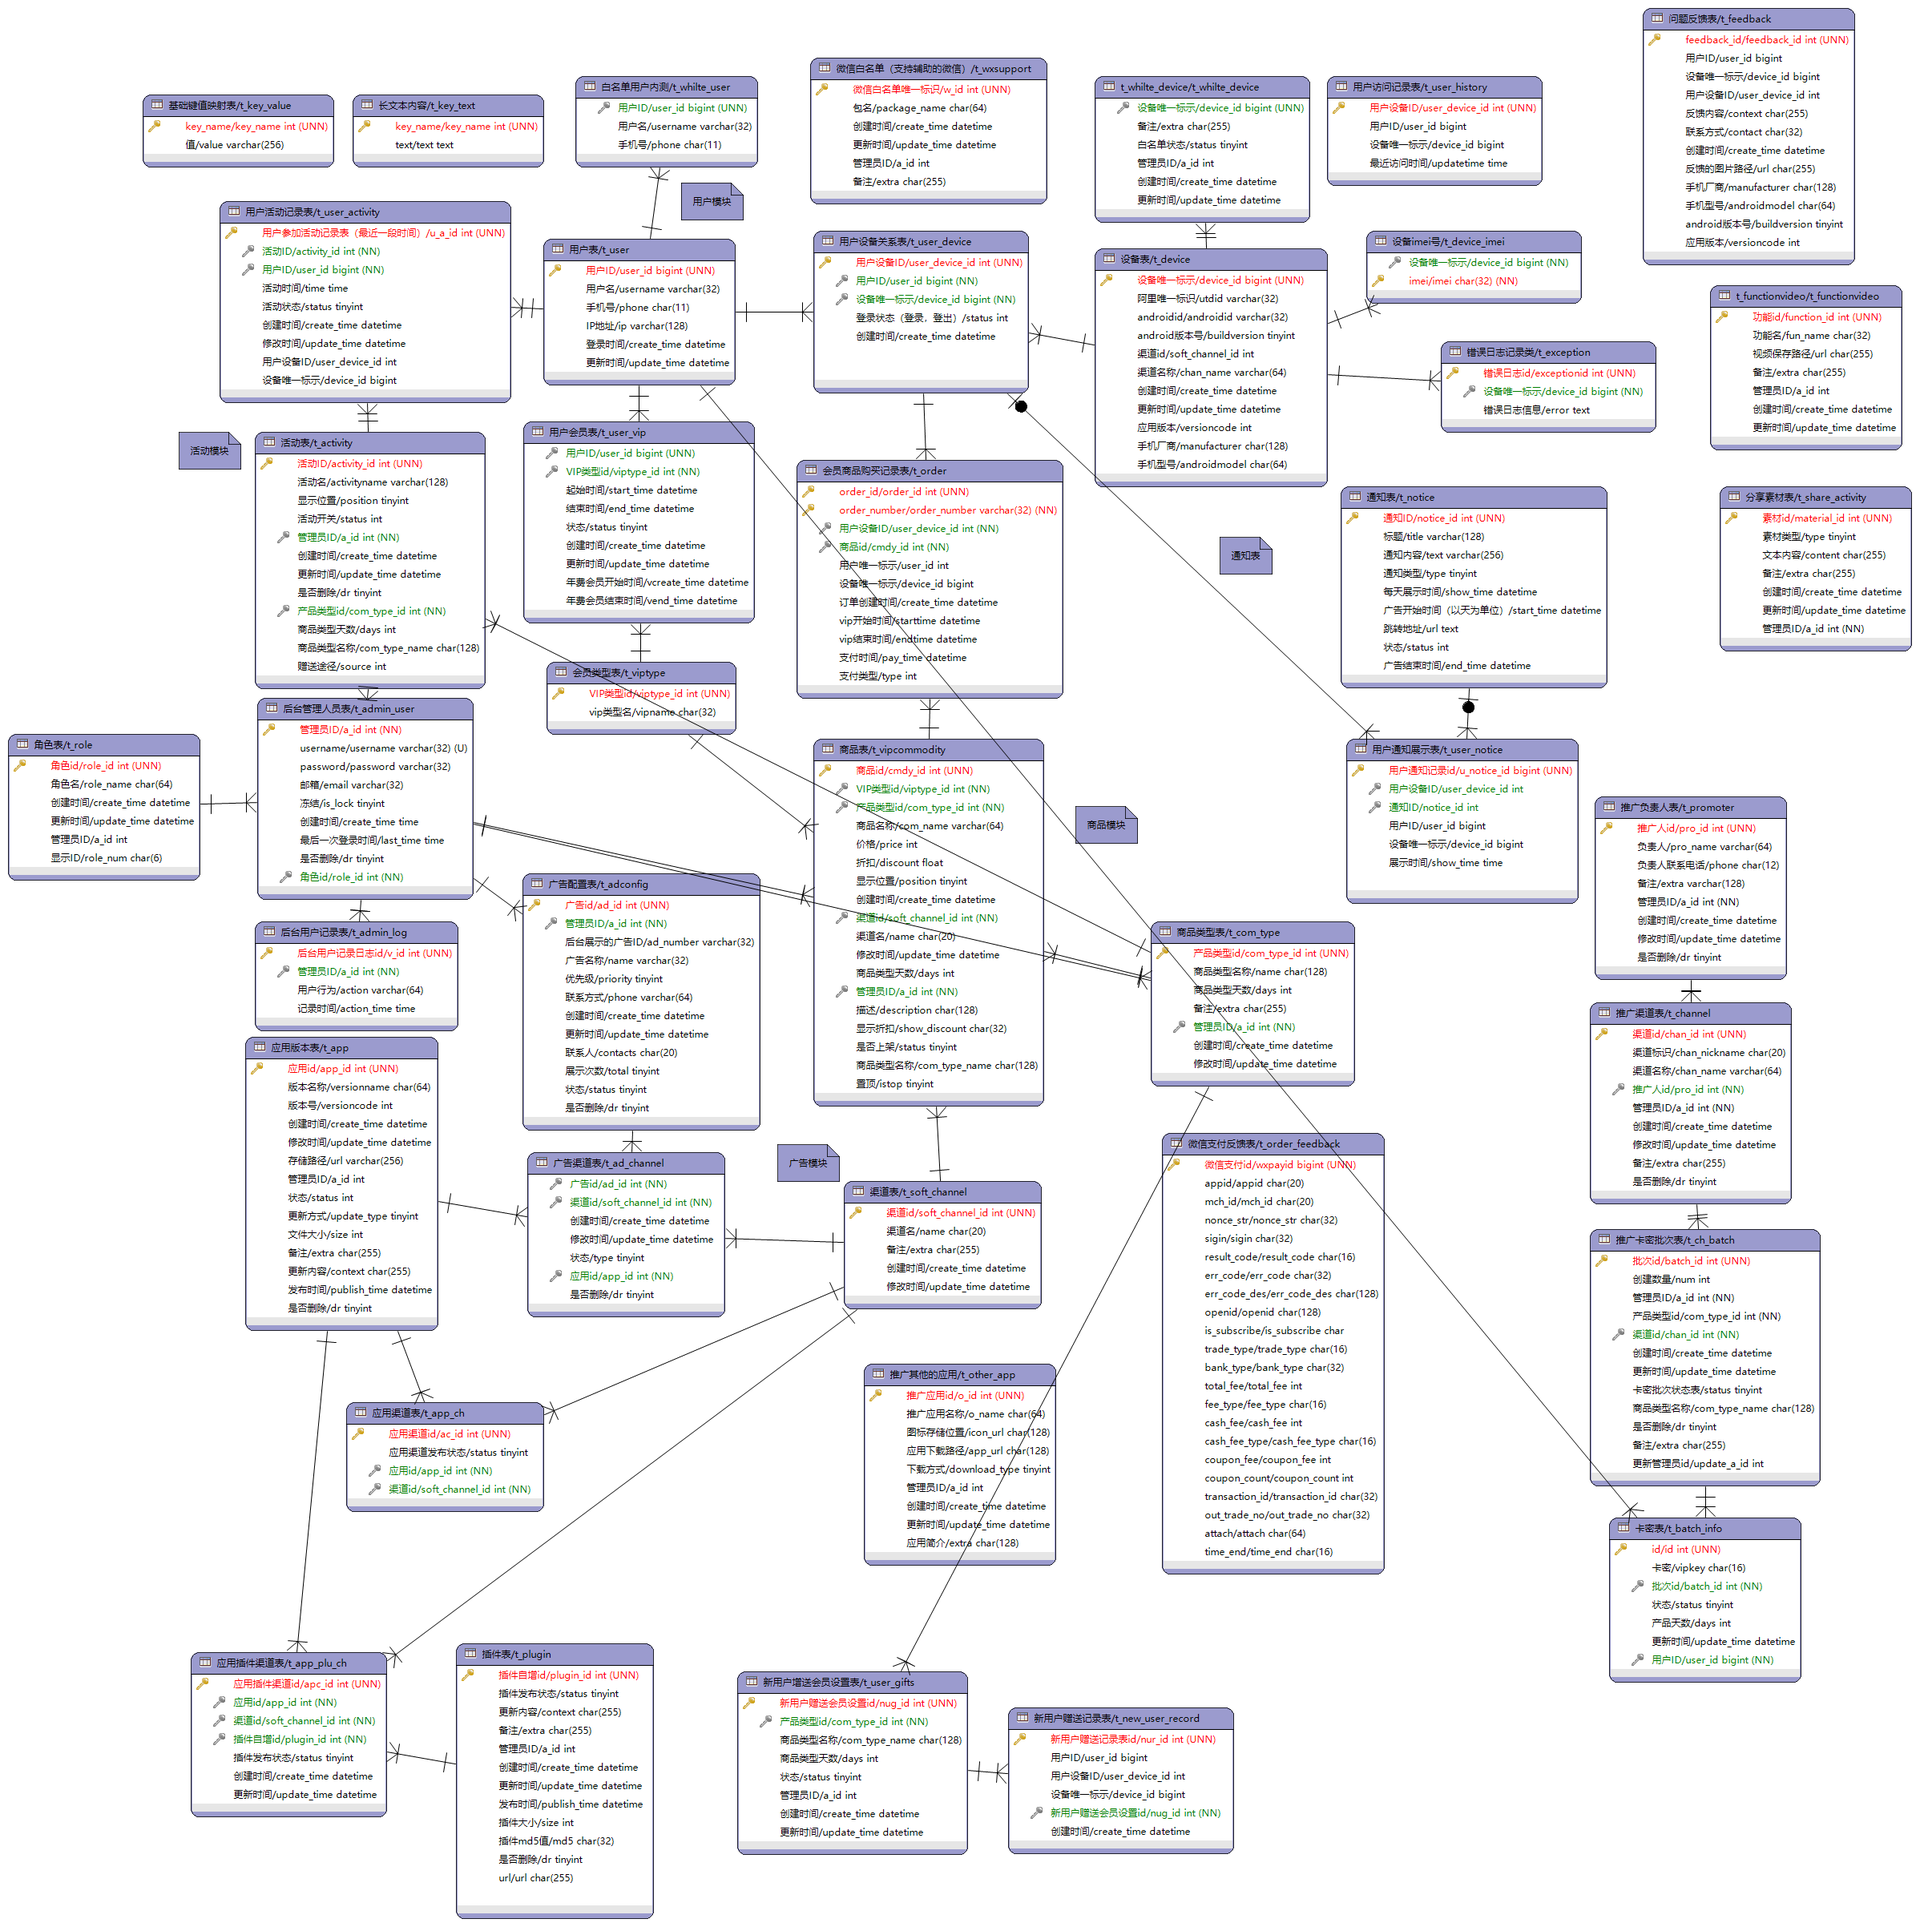
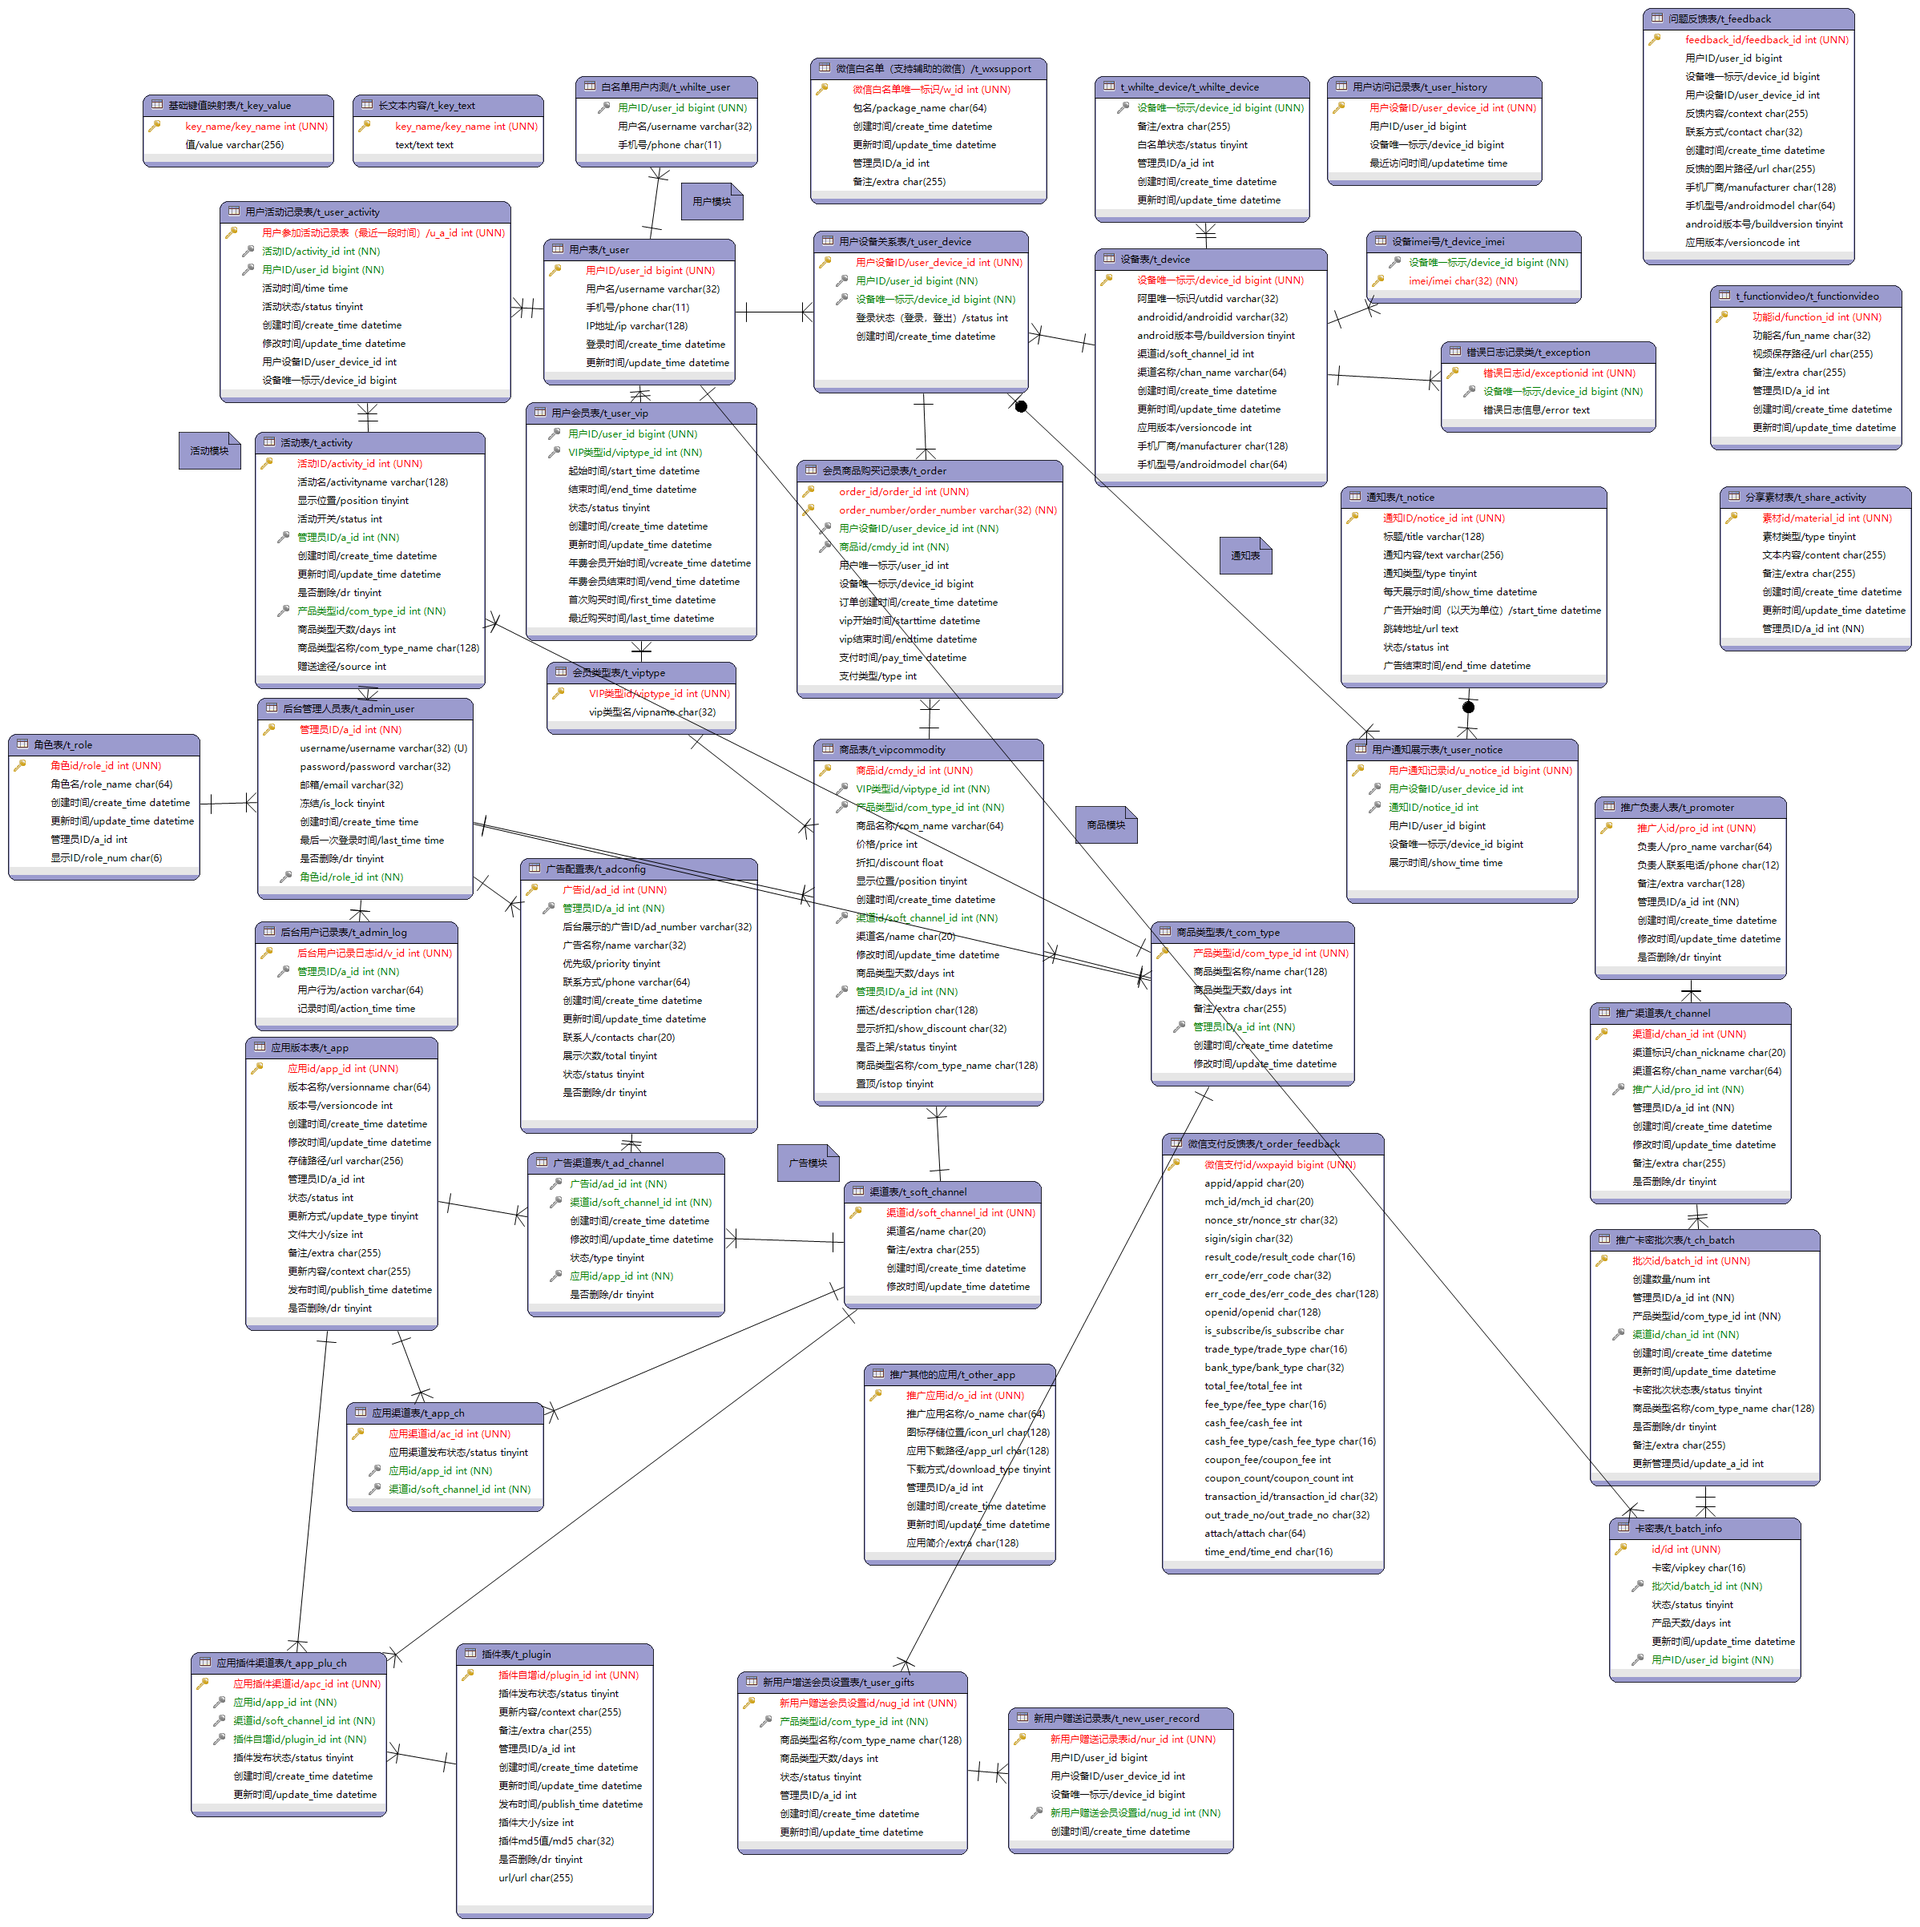
add table

Changed region(s): [[0.278, 0.1871, 0.4015, 0.343], [0.2471, 0.4366, 0.4015, 0.5925]]

diff --git a/smartweb/src/main/java/com/rpa/web/pojo/FeedbackPO.java b/smartweb/src/main/java/com/rpa/web/pojo/FeedbackPO.java
@@ -1,6 +1,7 @@
 package com.rpa.web.pojo;
 
 import java.io.Serializable;
+import java.util.Date;
 
 /**
  * t_feedback
@@ -16,6 +17,23 @@ public class FeedbackPO implements Serializable {
     private Integer userDeviceId;
 
     private String context;
+
+    private String contact;
+
+    private Date createTime;
+
+    private String url;
+
+    private String manufacturer;
+
+    private String androidmodel;
+
+    /**
+     * android系统的版本号
+     */
+    private Byte buildversion;
+
+    private Integer versioncode;
 
     private static final long serialVersionUID = 1L;
 
@@ -59,6 +77,62 @@ public class FeedbackPO implements Serializable {
         this.context = context;
     }
 
+    public String getContact() {
+        return contact;
+    }
+
+    public void setContact(String contact) {
+        this.contact = contact;
+    }
+
+    public Date getCreateTime() {
+        return createTime;
+    }
+
+    public void setCreateTime(Date createTime) {
+        this.createTime = createTime;
+    }
+
+    public String getUrl() {
+        return url;
+    }
+
+    public void setUrl(String url) {
+        this.url = url;
+    }
+
+    public String getManufacturer() {
+        return manufacturer;
+    }
+
+    public void setManufacturer(String manufacturer) {
+        this.manufacturer = manufacturer;
+    }
+
+    public String getAndroidmodel() {
+        return androidmodel;
+    }
+
+    public void setAndroidmodel(String androidmodel) {
+        this.androidmodel = androidmodel;
+    }
+
+    public Byte getBuildversion() {
+        return buildversion;
+    }
+
+    public void setBuildversion(Byte buildversion) {
+        this.buildversion = buildversion;
+    }
+
+    public Integer getVersioncode() {
+        return versioncode;
+    }
+
+    public void setVersioncode(Integer versioncode) {
+        this.versioncode = versioncode;
+    }
+
     @Override
     public boolean equals(Object that) {
         if (this == that) {
@@ -75,7 +149,14 @@ public class FeedbackPO implements Serializable {
             && (this.getUserId() == null ? other.getUserId() == null : this.getUserId().equals(other.getUserId()))
             && (this.getDeviceId() == null ? other.getDeviceId() == null : this.getDeviceId().equals(other.getDeviceId()))
             && (this.getUserDeviceId() == null ? other.getUserDeviceId() == null : this.getUserDeviceId().equals(other.getUserDeviceId()))
-            && (this.getContext() == null ? other.getContext() == null : this.getContext().equals(other.getContext()));
+            && (this.getContext() == null ? other.getContext() == null : this.getContext().equals(other.getContext()))
+            && (this.getContact() == null ? other.getContact() == null : this.getContact().equals(other.getContact()))
+            && (this.getCreateTime() == null ? other.getCreateTime() == null : this.getCreateTime().equals(other.getCreateTime()))
+            && (this.getUrl() == null ? other.getUrl() == null : this.getUrl().equals(other.getUrl()))
+            && (this.getManufacturer() == null ? other.getManufacturer() == null : this.getManufacturer().equals(other.getManufacturer()))
+            && (this.getAndroidmodel() == null ? other.getAndroidmodel() == null : this.getAndroidmodel().equals(other.getAndroidmodel()))
+            && (this.getBuildversion() == null ? other.getBuildversion() == null : this.getBuildversion().equals(other.getBuildversion()))
+            && (this.getVersioncode() == null ? other.getVersioncode() == null : this.getVersioncode().equals(other.getVersioncode()));
     }
 
     @Override
@@ -87,6 +168,13 @@ public class FeedbackPO implements Serializable {
         result = prime * result + ((getDeviceId() == null) ? 0 : getDeviceId().hashCode());
         result = prime * result + ((getUserDeviceId() == null) ? 0 : getUserDeviceId().hashCode());
         result = prime * result + ((getContext() == null) ? 0 : getContext().hashCode());
+        result = prime * result + ((getContact() == null) ? 0 : getContact().hashCode());
+        result = prime * result + ((getCreateTime() == null) ? 0 : getCreateTime().hashCode());
+        result = prime * result + ((getUrl() == null) ? 0 : getUrl().hashCode());
+        result = prime * result + ((getManufacturer() == null) ? 0 : getManufacturer().hashCode());
+        result = prime * result + ((getAndroidmodel() == null) ? 0 : getAndroidmodel().hashCode());
+        result = prime * result + ((getBuildversion() == null) ? 0 : getBuildversion().hashCode());
+        result = prime * result + ((getVersioncode() == null) ? 0 : getVersioncode().hashCode());
         return result;
     }
 
@@ -101,6 +189,13 @@ public class FeedbackPO implements Serializable {
         sb.append(", deviceId=").append(deviceId);
         sb.append(", userDeviceId=").append(userDeviceId);
         sb.append(", context=").append(context);
+        sb.append(", contact=").append(contact);
+        sb.append(", createTime=").append(createTime);
+        sb.append(", url=").append(url);
+        sb.append(", manufacturer=").append(manufacturer);
+        sb.append(", androidmodel=").append(androidmodel);
+        sb.append(", buildversion=").append(buildversion);
+        sb.append(", versioncode=").append(versioncode);
         sb.append(", serialVersionUID=").append(serialVersionUID);
         sb.append("]");
         return sb.toString();

diff --git a/smartweb/src/main/java/com/rpa/web/pojo/UserVipPO.java b/smartweb/src/main/java/com/rpa/web/pojo/UserVipPO.java
@@ -8,9 +8,6 @@ import java.util.Date;
  * @author 
  */
 public class UserVipPO implements Serializable {
-    /**
-     * 允许为null
-     */
     private Long userId;
 
     private Integer viptypeId;
@@ -31,6 +28,10 @@ public class UserVipPO implements Serializable {
     private Date vcreateTime;
 
     private Date vendTime;
+
+    private Date firstTime;
+
+    private Date lastTime;
 
     private static final long serialVersionUID = 1L;
 
@@ -106,6 +107,22 @@ public class UserVipPO implements Serializable {
         this.vendTime = vendTime;
     }
 
+    public Date getFirstTime() {
+        return firstTime;
+    }
+
+    public void setFirstTime(Date firstTime) {
+        this.firstTime = firstTime;
+    }
+
+    public Date getLastTime() {
+        return lastTime;
+    }
+
+    public void setLastTime(Date lastTime) {
+        this.lastTime = lastTime;
+    }
+
     @Override
     public boolean equals(Object that) {
         if (this == that) {
@@ -126,7 +143,9 @@ public class UserVipPO implements Serializable {
             && (this.getCreateTime() == null ? other.getCreateTime() == null : this.getCreateTime().equals(other.getCreateTime()))
             && (this.getUpdateTime() == null ? other.getUpdateTime() == null : this.getUpdateTime().equals(other.getUpdateTime()))
             && (this.getVcreateTime() == null ? other.getVcreateTime() == null : this.getVcreateTime().equals(other.getVcreateTime()))
-            && (this.getVendTime() == null ? other.getVendTime() == null : this.getVendTime().equals(other.getVendTime()));
+            && (this.getVendTime() == null ? other.getVendTime() == null : this.getVendTime().equals(other.getVendTime()))
+            && (this.getFirstTime() == null ? other.getFirstTime() == null : this.getFirstTime().equals(other.getFirstTime()))
+            && (this.getLastTime() == null ? other.getLastTime() == null : this.getLastTime().equals(other.getLastTime()));
     }
 
     @Override
@@ -142,6 +161,8 @@ public class UserVipPO implements Serializable {
         result = prime * result + ((getUpdateTime() == null) ? 0 : getUpdateTime().hashCode());
         result = prime * result + ((getVcreateTime() == null) ? 0 : getVcreateTime().hashCode());
         result = prime * result + ((getVendTime() == null) ? 0 : getVendTime().hashCode());
+        result = prime * result + ((getFirstTime() == null) ? 0 : getFirstTime().hashCode());
+        result = prime * result + ((getLastTime() == null) ? 0 : getLastTime().hashCode());
         return result;
     }
 
@@ -160,6 +181,8 @@ public class UserVipPO implements Serializable {
         sb.append(", updateTime=").append(updateTime);
         sb.append(", vcreateTime=").append(vcreateTime);
         sb.append(", vendTime=").append(vendTime);
+        sb.append(", firstTime=").append(firstTime);
+        sb.append(", lastTime=").append(lastTime);
         sb.append(", serialVersionUID=").append(serialVersionUID);
         sb.append("]");
         return sb.toString();
